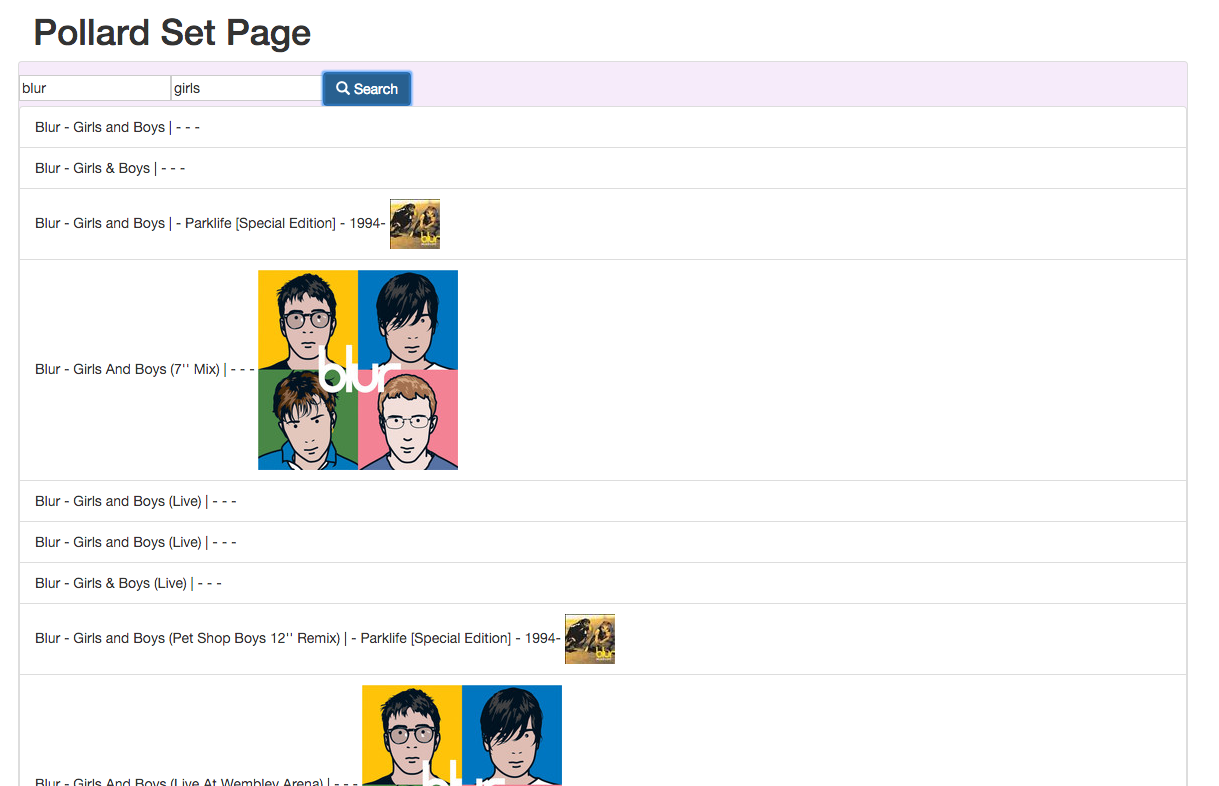
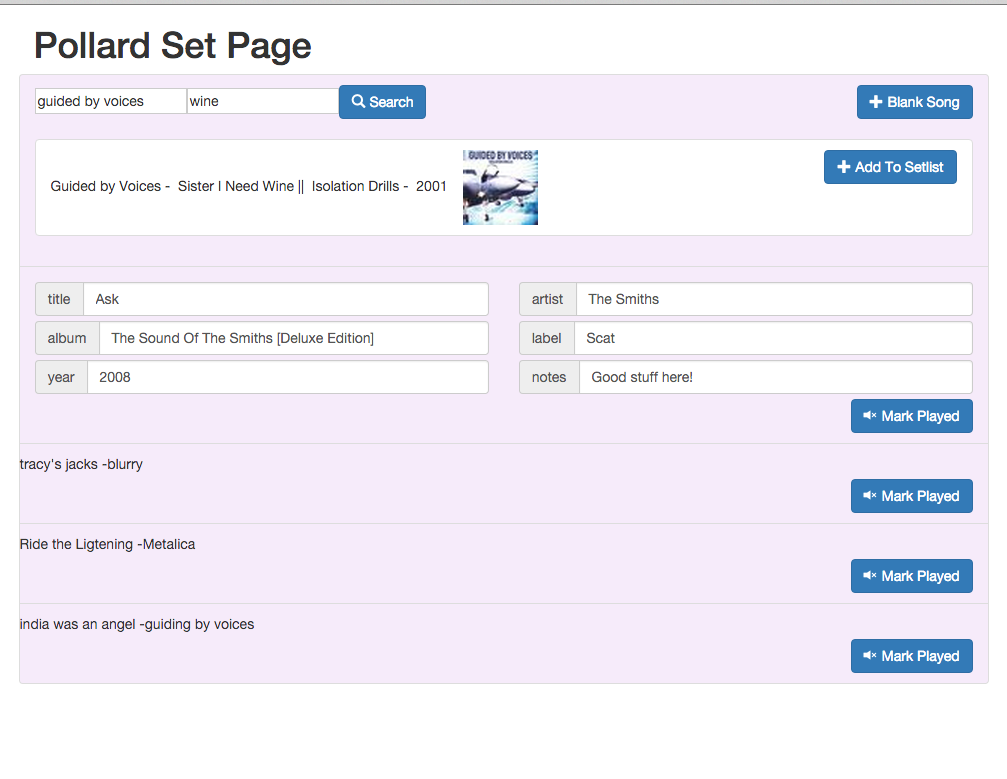
Update search styling and spiff

diff --git a/components/SearchSong.js b/components/SearchSong.js
@@ -157,8 +157,12 @@ export default class SearchSong extends Component {
 	}
 
   render() {
-		let songStyle= mergeStyles({
+		let searchStyle = mergeStyles({
 			backgroundColor: '#F6EBFA'
+		});
+
+		let searchCtrlStyle = mergeStyles({
+			marginBottom: 20
 		});
 
 		var artistValue = this.state.artistValue;
@@ -174,28 +178,30 @@ export default class SearchSong extends Component {
 
     return (
 			<li
-				className="list-group-item"
-				style={ songStyle }>
-				<div className="row">
-					<input
-						type="text"
-						placeholder="artist"
-						value={ artistValue }
-						onChange={ (e) => this.handleArtistChange(e) }/>
-					<input
-						type="text"
-						placeholder="track"
-						value={ trackValue }
-						onChange={ (e) => this.handleTrackChange(e) }/>
-					<button 
-						type="button"
-						className="btn btn-primary"
-						onClick={ (e) => this.handleSearchClick(e) }>
-						<span
-							className="glyphicon glyphicon-search"
-							aria-hidden="true"></span> Search
-					</button>
-					<AddSong onAddSong={ this.props.onAddSong } />
+				className="list-group-item clearfix"
+				style={ searchStyle }>
+				<div>
+					<div style={ searchCtrlStyle }>
+						<input
+							type="text"
+							placeholder="artist"
+							value={ artistValue }
+							onChange={ (e) => this.handleArtistChange(e) }/>
+						<input
+							type="text"
+							placeholder="track"
+							value={ trackValue }
+							onChange={ (e) => this.handleTrackChange(e) }/>
+						<button 
+							type="button"
+							className="btn btn-primary"
+							onClick={ (e) => this.handleSearchClick(e) }>
+							<span
+								className="glyphicon glyphicon-search"
+								aria-hidden="true"></span> Search
+						</button>
+						<AddSong onAddSong={ this.props.onAddSong } />
+					</div>
 					{ (this.state.foundSongs.length > 0) ?
 						<ul className="list-group">
 							{ foundSongsComponents }
